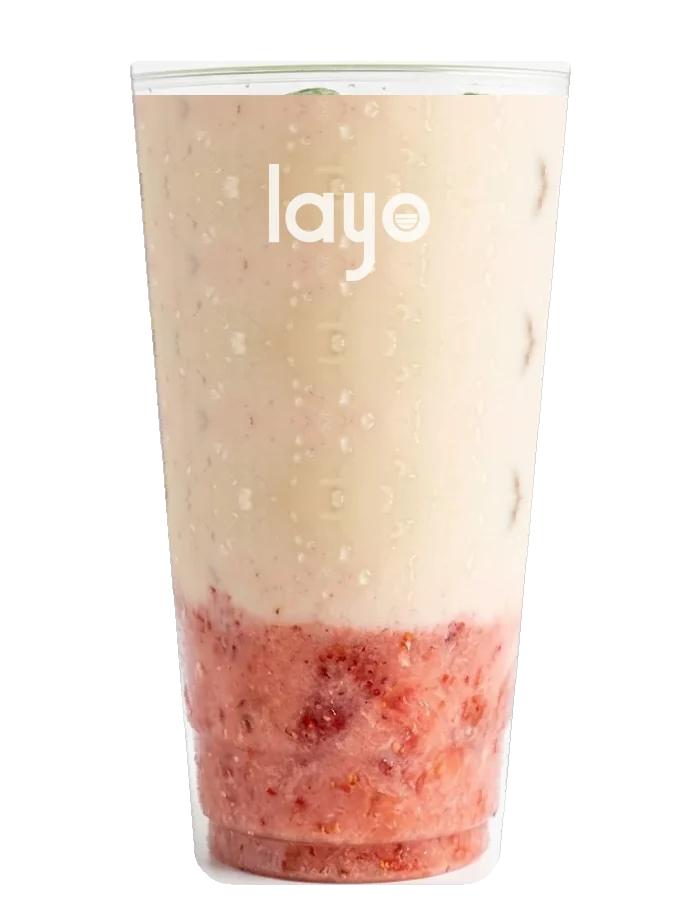
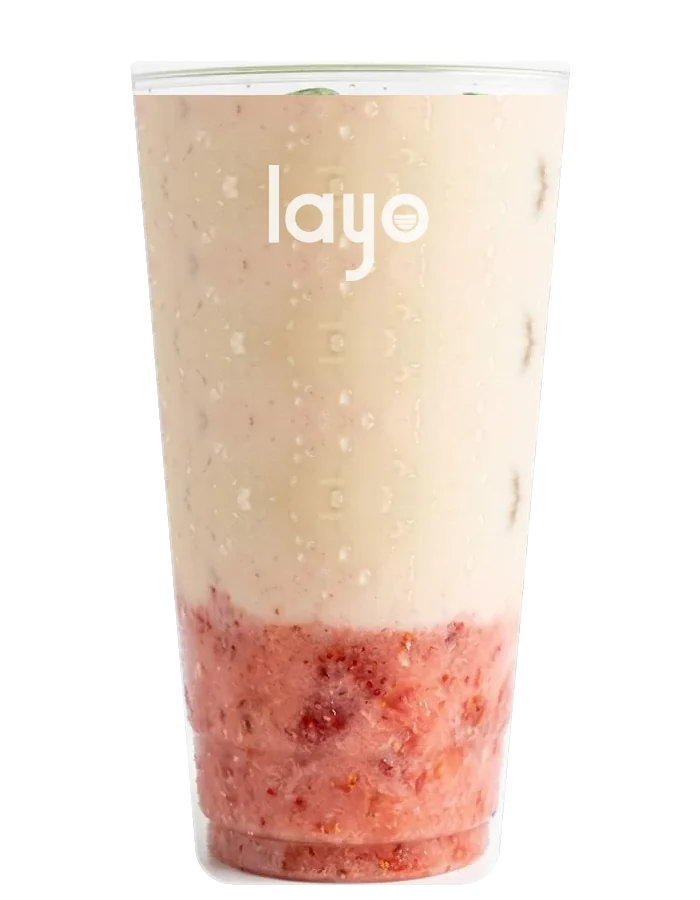
Layo: cups cut to the drink's edge with straight walls, rounded base and a drawn plastic rim, same silhouette everywhere
Claude-Session: https://claude.ai/code/session_01UTJuAjWUwzzxbHTx65gk4g

diff --git a/tools/build_live.py b/tools/build_live.py
@@ -63,11 +63,27 @@ def clean(F):
         if content_b(y)<.6: bot_y=y-1
     ls[:top_y]=-1; rs[:top_y]=-1; ls[bot_y+1:]=-1; rs[bot_y+1:]=-1
     ok=np.where(ls>=0)[0]
+    # tighten to the drink itself: move each wall inwards past the pale plastic and backdrop strip,
+    # then fit straight lines (a cup wall is straight) through the rows that hold liquid
+    pale=(L>205)&(S<22)
+    mid=[y for y in ok if ok[0]+90<y<ok[-1]-70]
+    li,ri=[],[]
+    for y in mid:
+        l,r=int(ls[y]),int(rs[y]); k1=0; k2=0
+        while k1<26 and pale[y,l+k1]: k1+=1
+        while k2<26 and pale[y,r-k2]: k2+=1
+        li.append(l+k1); ri.append(r-k2)
+    if len(mid)>50:
+        pl=np.polyfit(mid,li,1); pr=np.polyfit(mid,ri,1)
+        # robust: refit without the rows that were far off (ice cubes, bubbles at the edge)
+        ml=np.abs(np.polyval(pl,mid)-li)<6; mr=np.abs(np.polyval(pr,mid)-ri)<6
+        pl=np.polyfit(np.array(mid)[ml],np.array(li)[ml],1); pr=np.polyfit(np.array(mid)[mr],np.array(ri)[mr],1)
+        for y in ok: ls[y]=np.polyval(pl,y)+1; rs[y]=np.polyval(pr,y)-1
     def smooth(v):
         o=v.copy()
         for y in ok: lo,hi=max(ok[0],y-12),min(ok[-1],y+12); o[y]=np.median(v[lo:hi+1][v[lo:hi+1]>=0])
         return o
-    ls2,rs2=smooth(ls),smooth(rs)
+    ls2,rs2=ls,rs
     y0,y1=ok[0],ok[-1]; R=34
     al=np.zeros((Hh,Ww))
     for y in ok:
@@ -127,6 +143,12 @@ for k,p in SRC.items():
     # rim above the drink is the cup itself: copy it into milk and empty so the cup never changes
     for n in ('milk','empty'):
         a=np.asarray(imgs[n]).copy(); a[:lt-8]=np.where(a[:lt-8,:,3:4]>0,a[:lt-8],F[:lt-8]) if n=='milk' else a[:lt-8]; imgs[n]=Image.fromarray(a)
+    alpha=np.asarray(imgs['full'])[:,:,3]
+    edge=np.asarray(Image.fromarray(alpha).filter(ImageFilter.MaxFilter(3))).astype(int)-np.asarray(Image.fromarray(alpha).filter(ImageFilter.MinFilter(5))).astype(int)
+    edge=np.clip(edge,0,255)/255.
+    for n in imgs:
+        a=np.asarray(imgs[n]).astype(float); w=edge[:,:,None]*.38
+        a[:,:,:3]=a[:,:,:3]*(1-w)+255*w; imgs[n]=Image.fromarray(a.astype(np.uint8))
     cy=lt+ (mb-lt)*.42; l,r=Fw[int(cy)]
     for n,im in imgs.items():
         print_on(im,(l+r)/2,cy,r-l)

diff --git a/skills/premium-wow-design/references/qa.md b/skills/premium-wow-design/references/qa.md
@@ -69,3 +69,4 @@
 - Слои жидкости в SVG: рисовать сверху вниз (верхний слой первым, нижние поверх), иначе верхний закрывает всё. Декор слоя (лёд, разводы) двигать вместе с текущим уровнем, а не с целевым.
 - В `.wrap{padding:0 X}` внутри media-запроса легко затереть padding-top секций — задавать только left/right.
 - Пустой toast с translate за экран всё равно виден краем — добавлять visibility:hidden.
+- Вырезка стакана с фото: стенка пластика + белый фон за ней дают светлую полосу по краю, которая на цветном фоне читается как «прямоугольник». Резать по краю НАПИТКА (сдвиг внутрь через бледные пиксели), стенки — прямые линии polyfit, дно и ободок скруглить, белую полосу фона над ободком и под дном отрезать; тонкий блик пластика дорисовать самим. Один эталонный силуэт на все варианты продукта.
